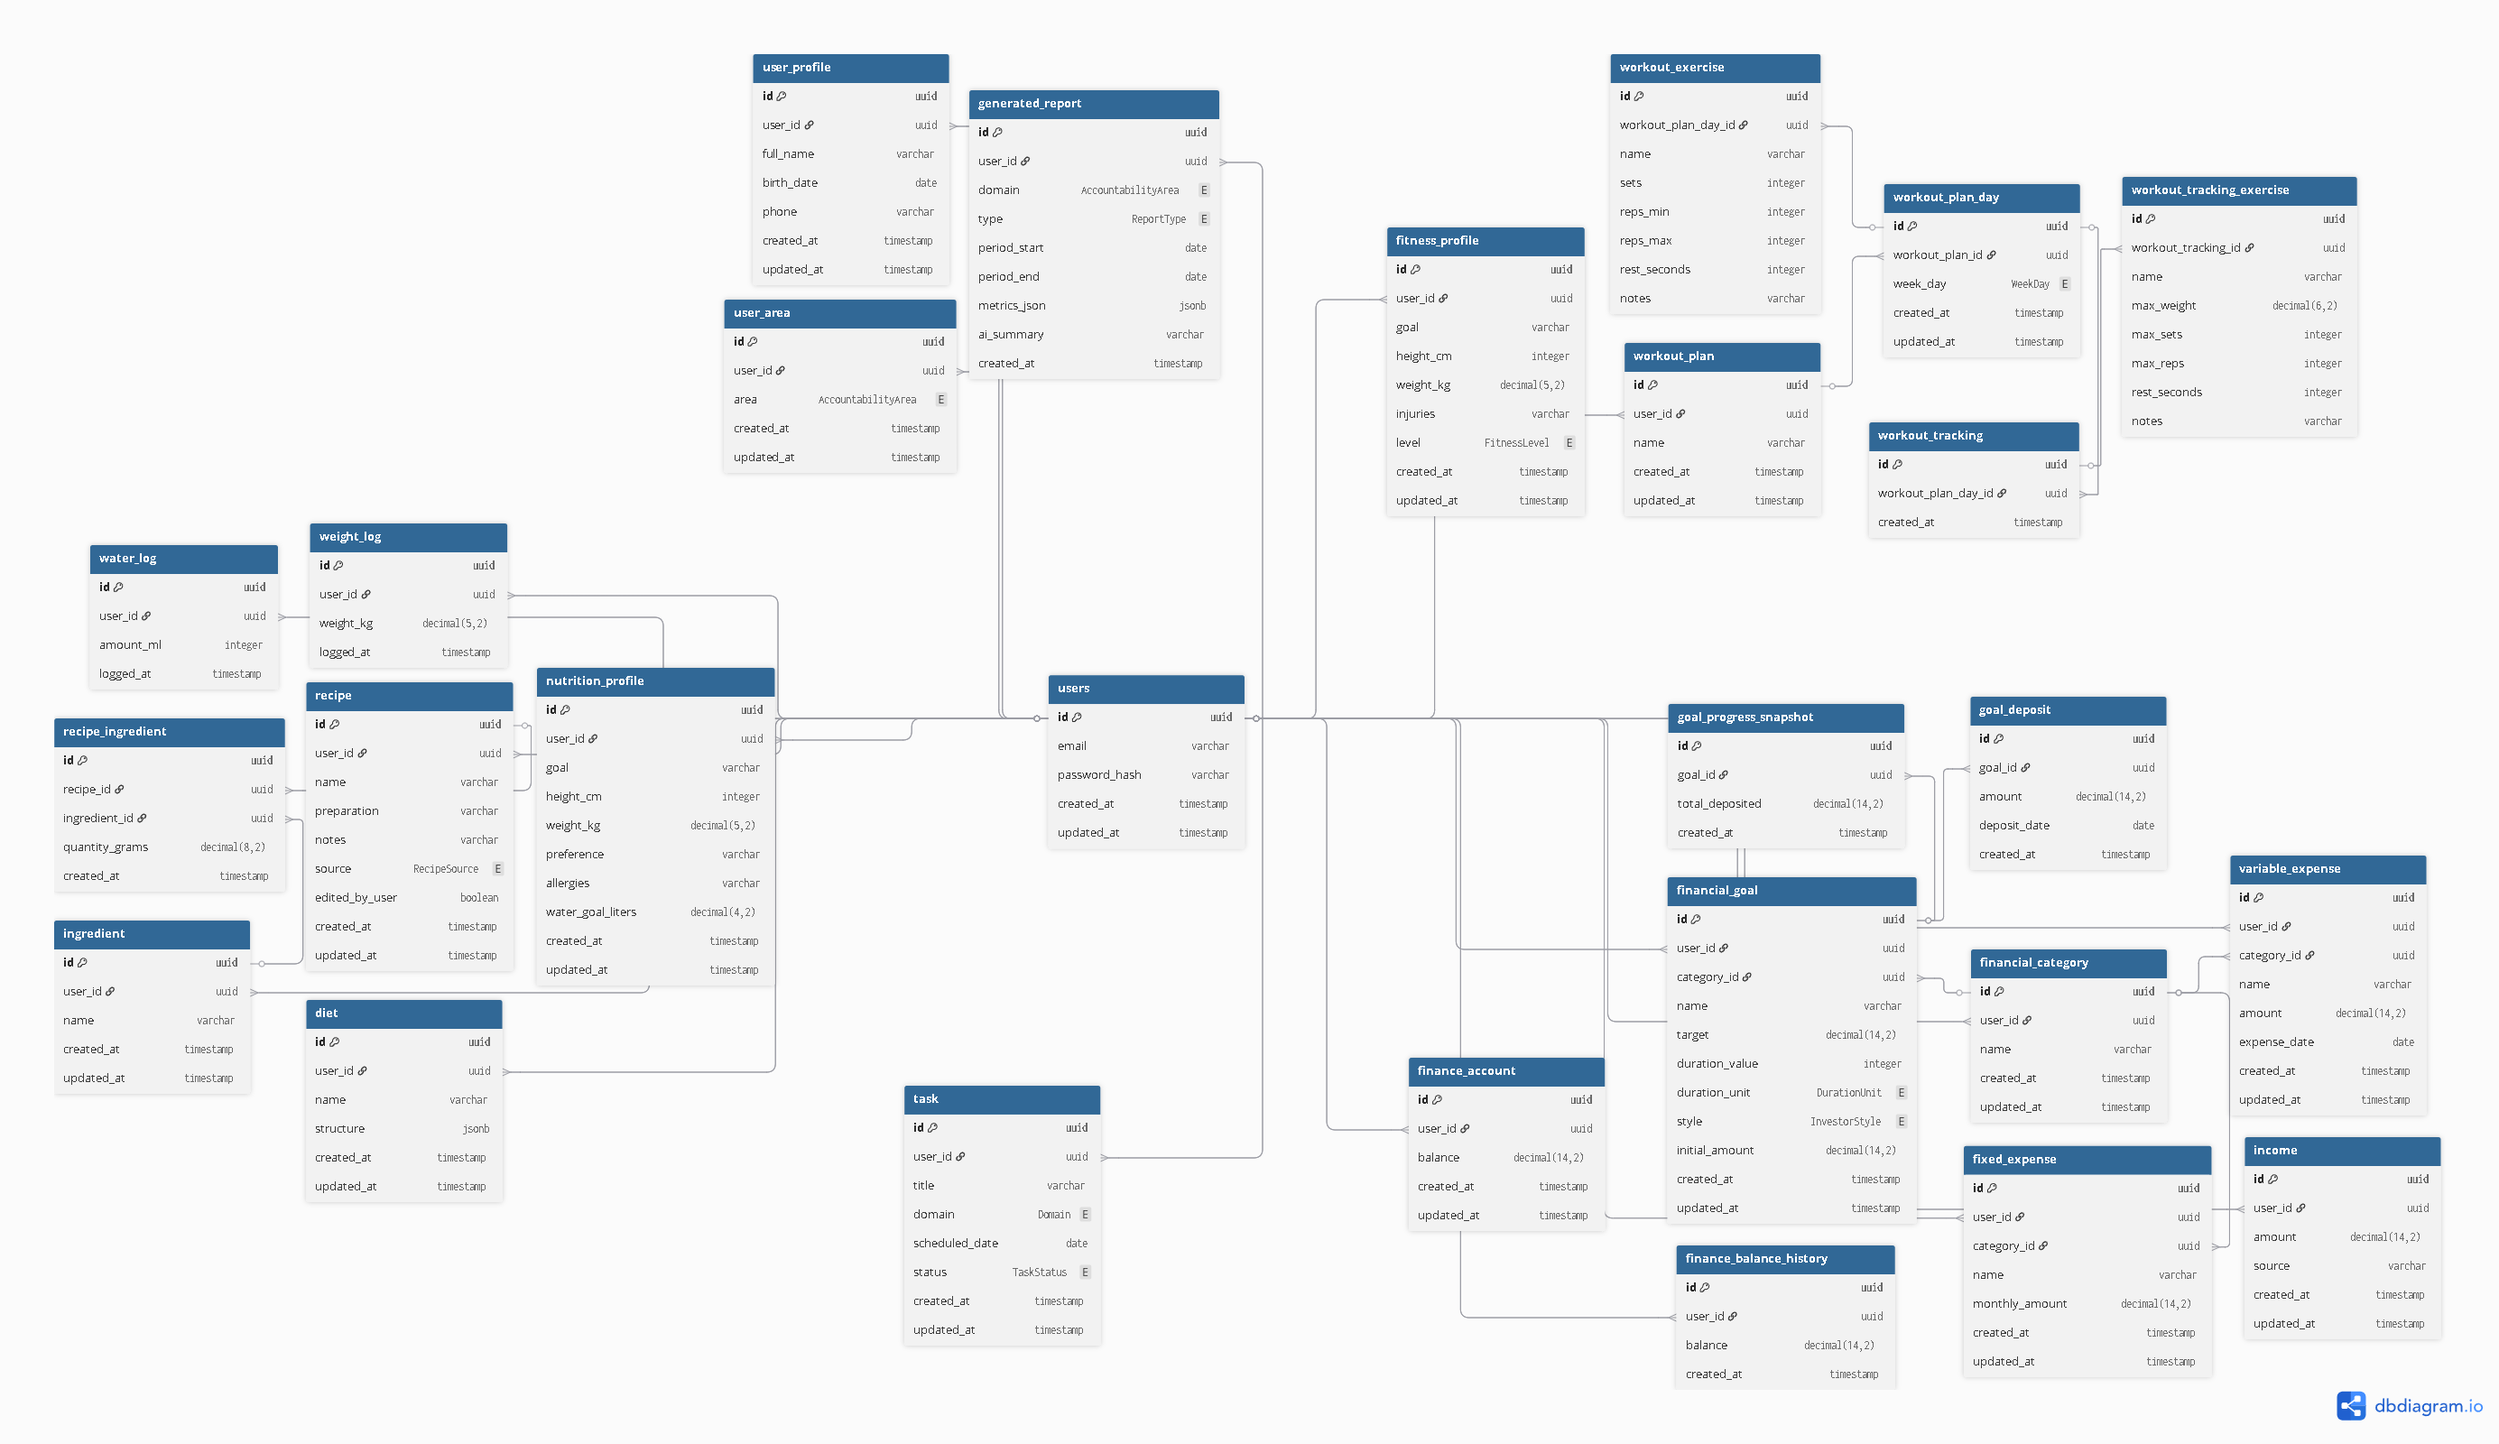
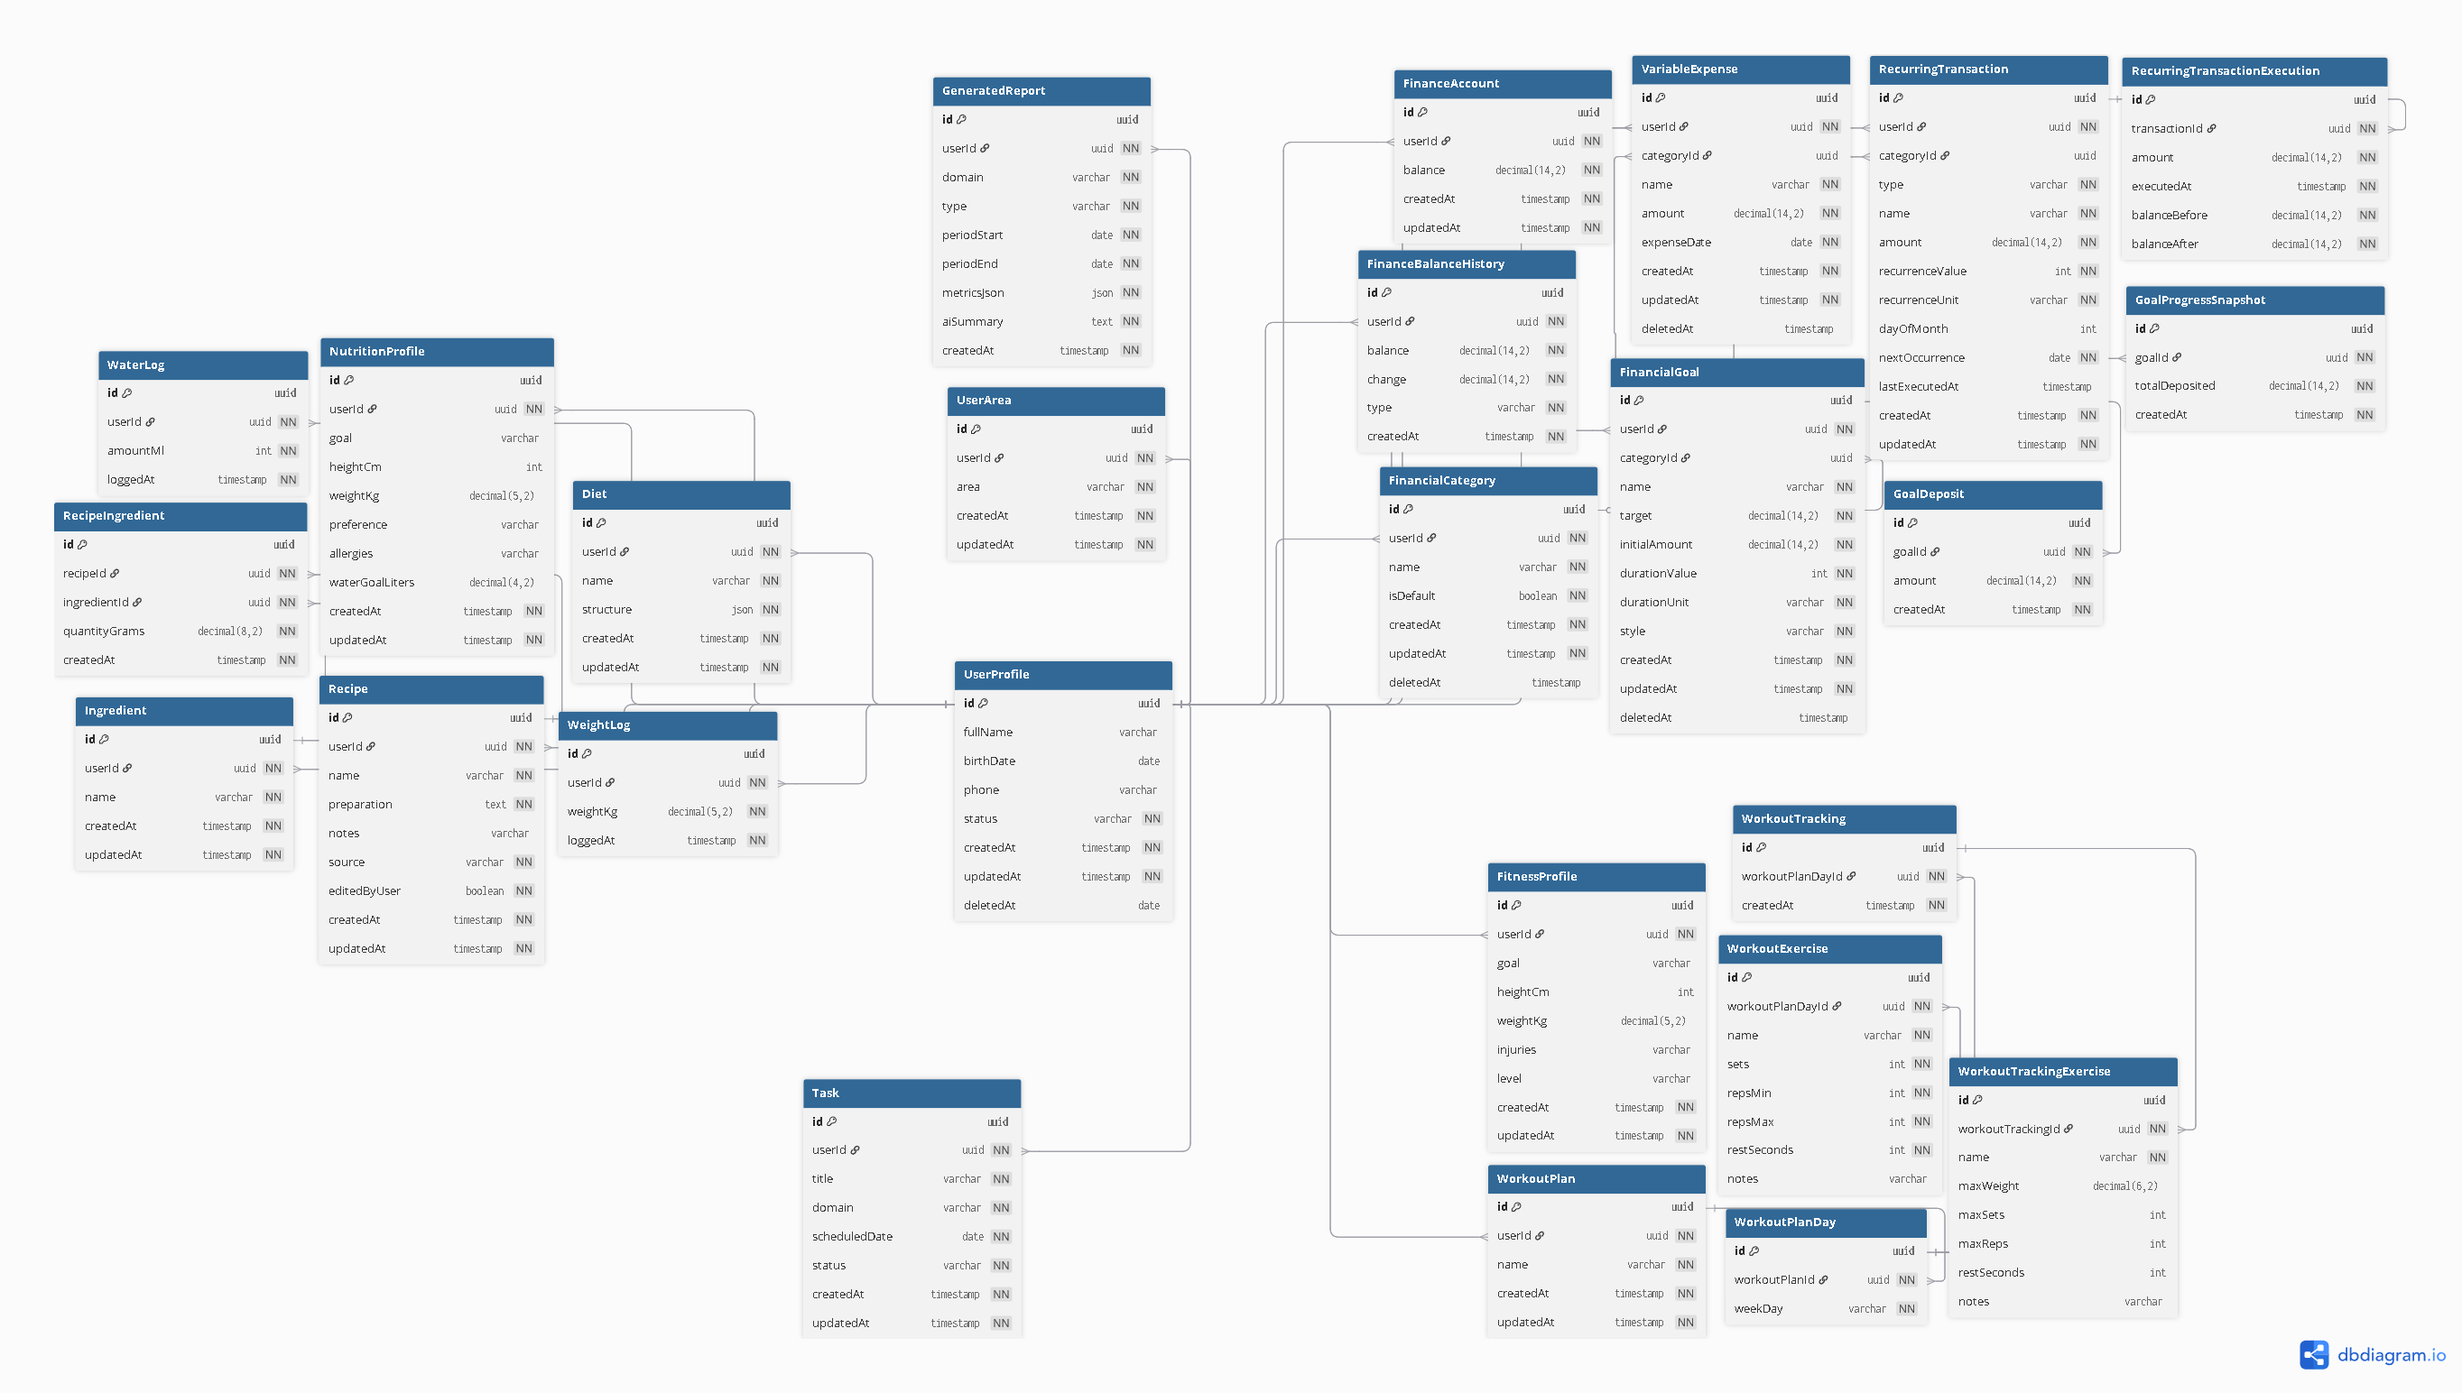
docs(erd): improve erd diagram image

diff --git a/DB-docs/DB_README.md b/DB-docs/DB_README.md
@@ -36,7 +36,6 @@ O diagrama completo, utilizado como base para a modelagem no Prisma, está dispo
 
 📁 `DB-docs/erd.png`
 
-> Em ambiente real, a entidade de usuário é mantida apenas no Supabase. O modelo `UserProfile` no schema representa dados adicionais do perfil, não a autenticação em si.
 
 ---
 
@@ -46,7 +45,7 @@ O diagrama completo, utilizado como base para a modelagem no Prisma, está dispo
 
 #### `UserProfile`
 
-Armazena informações complementares do usuário autenticado via Supabase.
+Armazena informações complementares do usuário autenticado via Supabase e centraliza as referências de todas as outras tabelas por meio do `userId`. Ao utilizar o mesmo UUID do Supabase Auth, garantimos integridade e evitamos duplicação de identidade.
 
 | Campo | Tipo | Descrição |
 |---|---|---|
@@ -626,9 +625,9 @@ accountability-backend/
 
 ## Identidade e Autenticação
 
-O banco não possui tabela própria de usuários para autenticação.
+O banco não possui tabela própria de usuários para autenticação. Mas sim, um modelo `UserProfile` que armazena dados complementares do perfil do usuário autenticado via Supabase.
 
-O `userId` presente em todos os modelos corresponde ao UUID do usuário autenticado via Supabase Auth. O modelo `UserProfile` existe apenas para armazenar dados complementares do perfil (nome, data de nascimento, etc.), mantendo a identidade estritamente no Supabase.
+O `userId` presente em todos os modelos corresponde ao id do user profile que é associado ao id do usuário autenticado no Supabase Auth. Ao gerar um registro na tabela users do Supabase, um trigger é acionado para criar automaticamente um `UserProfile` correspondente no banco, utilizando o mesmo UUID. Isso garante que todas as referências de usuário nas tabelas do domínio estejam alinhadas com a autenticação do Supabase, evitando inconsistências e simplificando a gestão de identidade.
 
 ### Vantagens
 
